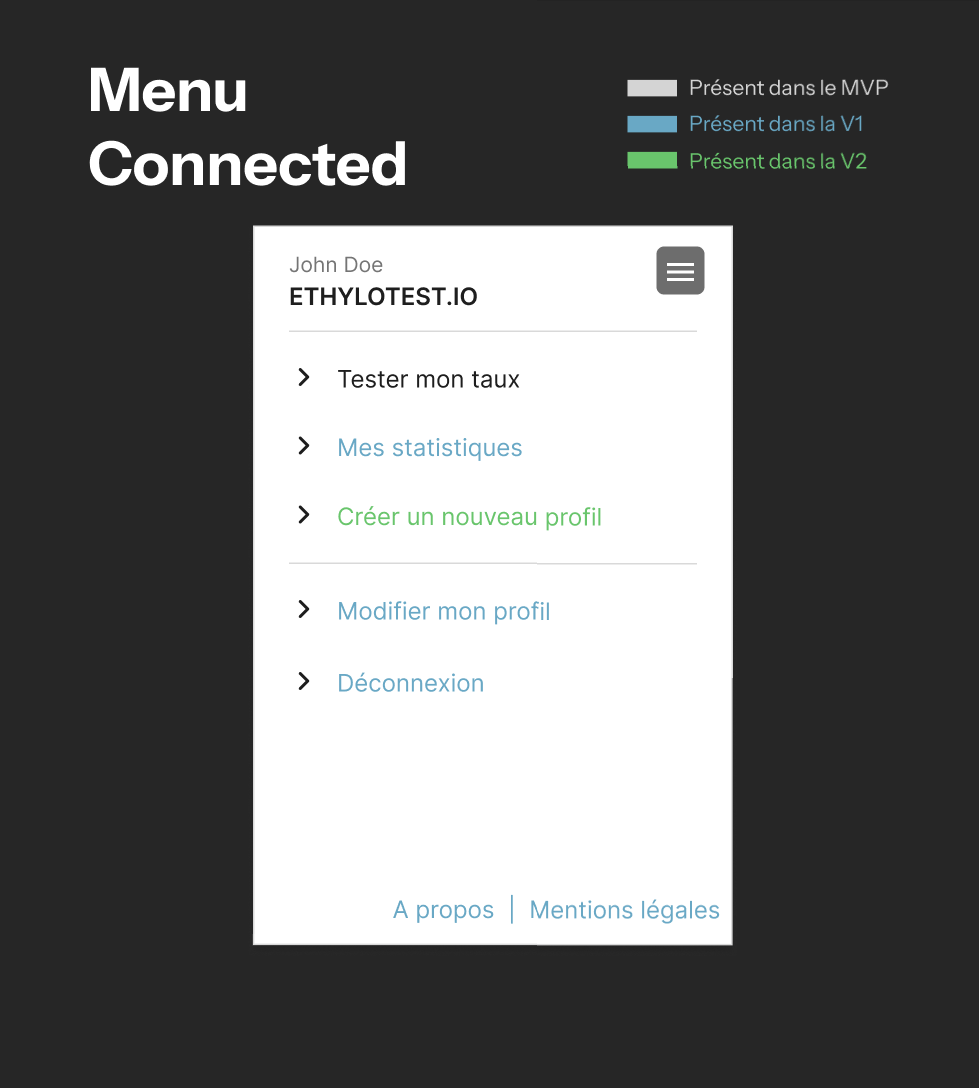
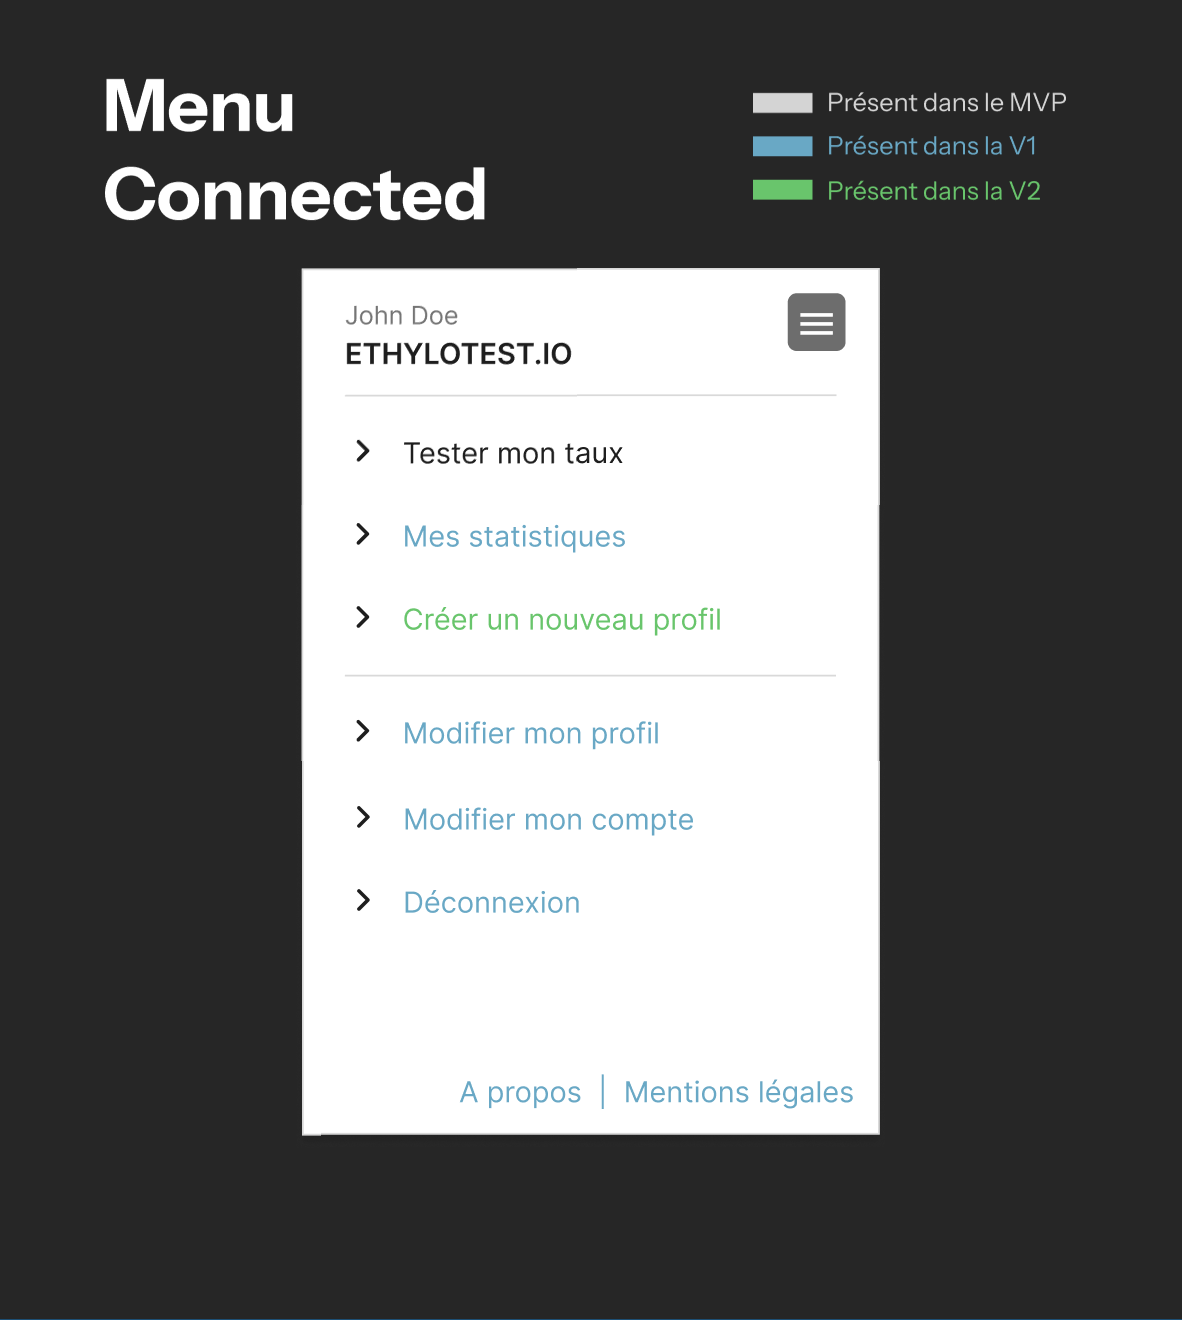
:memo: Add wireframe : edit account.png & menu logged.png

diff --git a/docs/cdc/cahier-des-charges.md b/docs/cdc/cahier-des-charges.md
@@ -49,17 +49,18 @@
 
 - **Pages du site** : 
 
-| Version | Page | Contenu |
-|---|---|---|
-| MVP | Accueil | Accès à l'éthylotest |
-| MVP | Mentions légales | Toutes les mentions légales |
-| MVP | A propos | Plus d'informations sur l'app et pourquoi s'inscrire |
-| V1 | Contact | Page de contact |
-| V1 | Dashboard | graphique de la consommation (Annuelle, mensuelle, hebdomadaire ou journalière) |
-| V1 | Edition de compte | Formulaire d'édition du compte principal |
-| V1 | Edition de profil | Formulaire d'édition du profil |
-| V1 | Edition de profil | Formulaire d'édition du profil |
-| V2 | Choix du profil à éditer | Formulaire d'édition du profil selectionné |
+| Version | Page | Contenu | wireframe |
+|---|---|---|---|
+| MVP | Accueil | Accès à l'éthylotest sans être connecté | [Accueil déconnecté](./wireframes/home-logout.png)
+| MVP | Accueil | Accès à l'éthylotest connecté | [Accueil connecté](./wireframes/home-logged.png)
+| MVP | Résultat | Accès à l'éthylotest | [Résultat](./wireframes/result.png)
+| MVP | Mentions légales | Toutes les mentions légales | [Mentions légales](./wireframes/legal-notices.png)
+| MVP | A propos | Plus d'informations sur l'app et pourquoi s'inscrire | [A propos](./wireframes/about.png)
+| V1 | Contact | Page de contact | [A FAIRE](#)
+| V1 | Dashboard | graphique de la consommation (Annuelle, mensuelle, hebdomadaire ou journalière) | [A FAIRE](./wireframes/#)
+| V1 | Edition de compte | Formulaire d'édition du compte principal | [Edition du compte](./wireframes/edit-account.png)
+| V1 | Edition de profil | Formulaire d'édition du profil | [Edition de profil](./wireframes/edit-profile.png)
+| V2 | Choix du profil à éditer | Formulaire d'édition du profil selectionné | [Choix de profil (dans le header)](./wireframes/home-logged.png)
 
 
 ## 4. Cahier des charges technique
